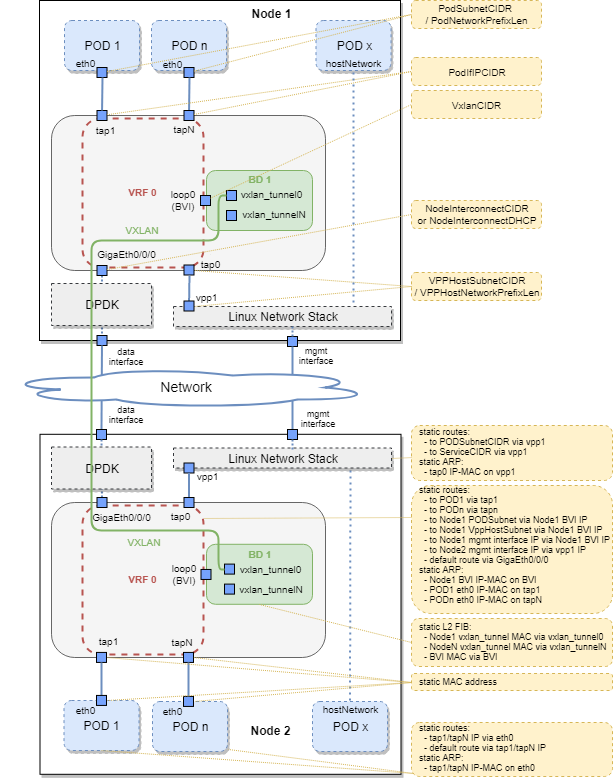
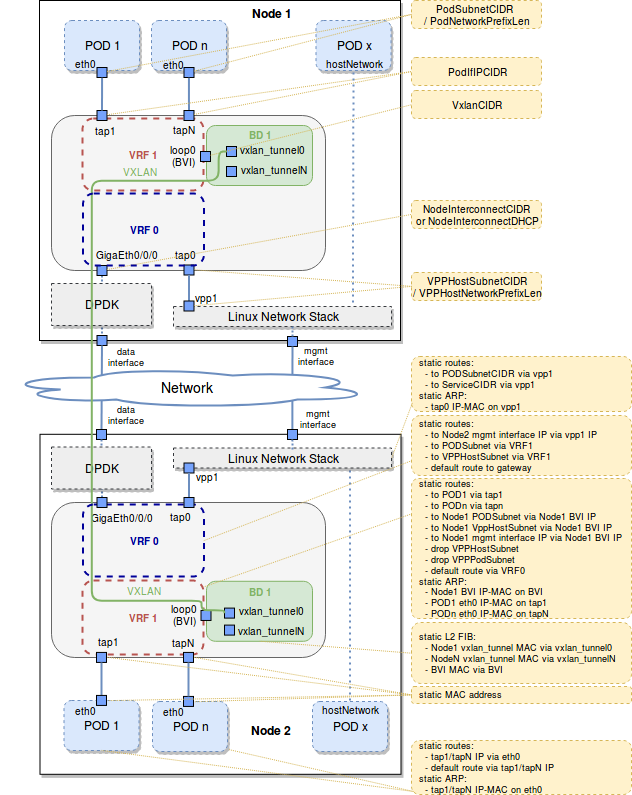
Update docs

diff --git a/docs/NETWORKING.md b/docs/NETWORKING.md
@@ -77,9 +77,10 @@ This section describes how Contiv/VPP control plane programs the VPP based on th
 events it receives from k8s. It is not necessarily needed to understand this section
 for basic operation of Contiv/VPP, but it can be very useful for debugging purposes.
 
-Contiv/VPP currently uses a single VRF to forward the traffic between PODs on a node,
-PODs on different nodes, host network stack and DPDK-managed dataplane interface. The forwarding
-between each of them is purely L3-based, even for case of communication
+Contiv/VPP currently uses two VRFs - one to connect PODs on all nodes and the other to connect host network stack
+and DPDK-managed dataplane interface. Routing between them enforces inter-node traffic to be sent in
+ VXLAN and allows to access PODs from host network stack. The forwarding
+among PODs is purely L3-based, even for case of communication
 between 2 PODs within the same node.
 
 #### DPDK-managed data interface
@@ -131,10 +132,10 @@ each 2 nodes within the cluster (full mesh).
 All VXLAN tunnels are terminated in one bridge domain on each VPP. The bridge domain
 has learning and flooding disabled, the l2fib of the bridge domain is filled in with 
 a static entry for each VXLAN tunnel. Each bridge domain has a BVI interface which
-interconnects the bridge domain with the main VRF (L3 forwarding). This interface needs
+interconnects the bridge domain with the POD VRF (L3 forwarding). This interface needs
 an unique IP address, which is assigned from the `VxlanCIDR` as describe above.
 
-The main VRF contains several static routes that point to the BVI IP addresses of other nodes.
+The POD VRF contains several static routes that point to the BVI IP addresses of other nodes.
 For each node, it is a route to PODSubnet and VppHostSubnet of the remote node, as well as a route
 to the management IP address of the remote node. For each of these routes, the next hop IP is the
 BVI interface IP of the remote node, which goes via the BVI interface of the local node.
